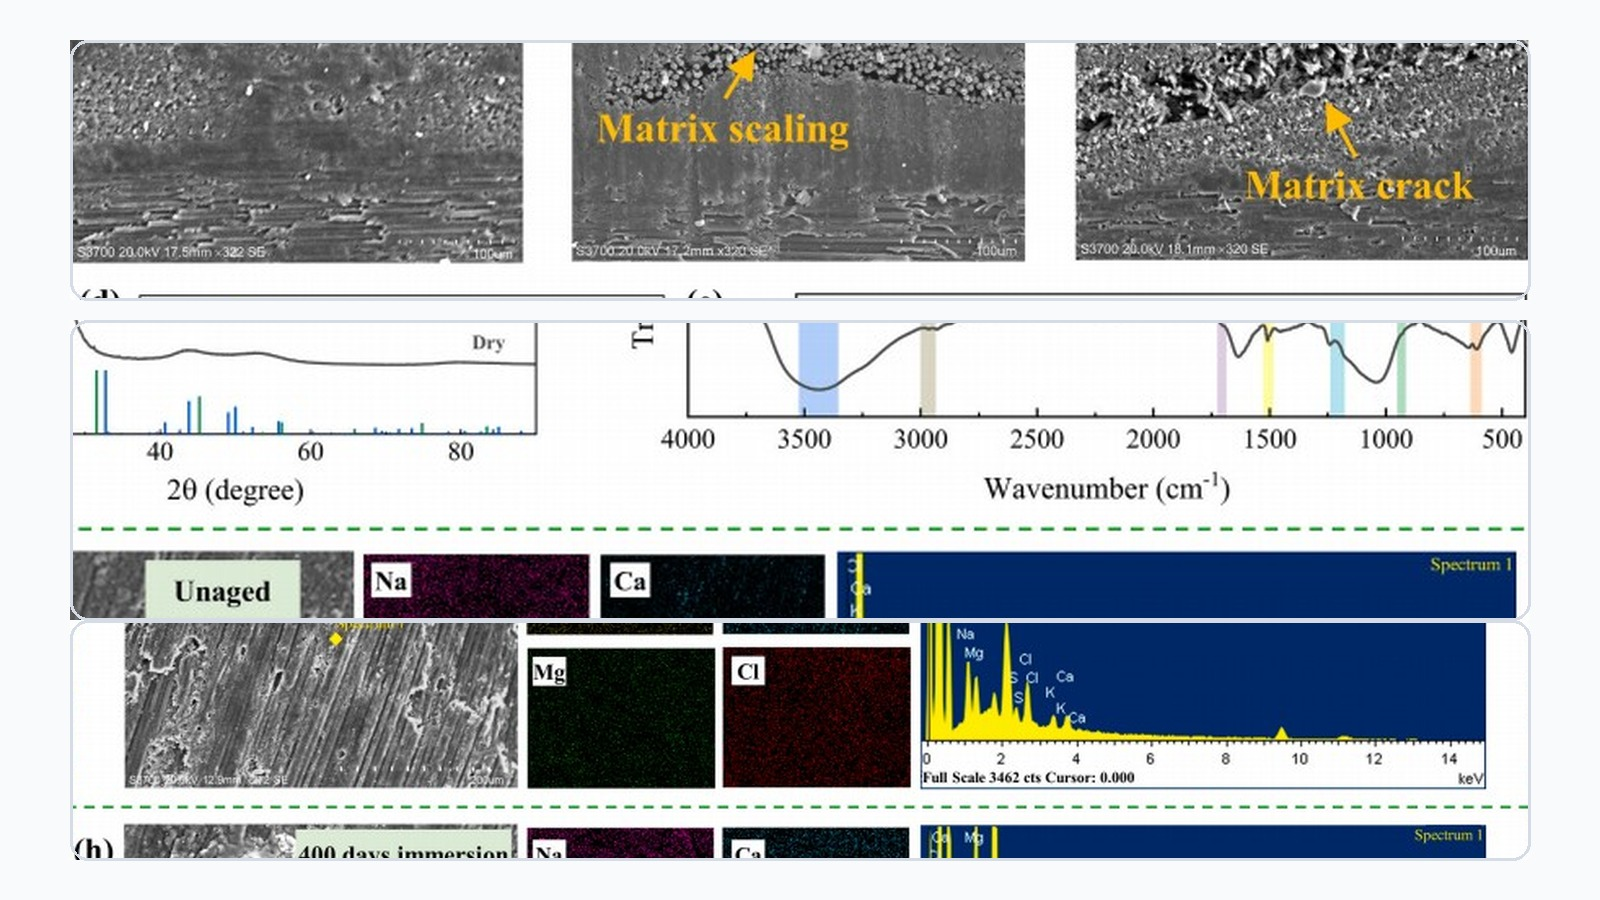
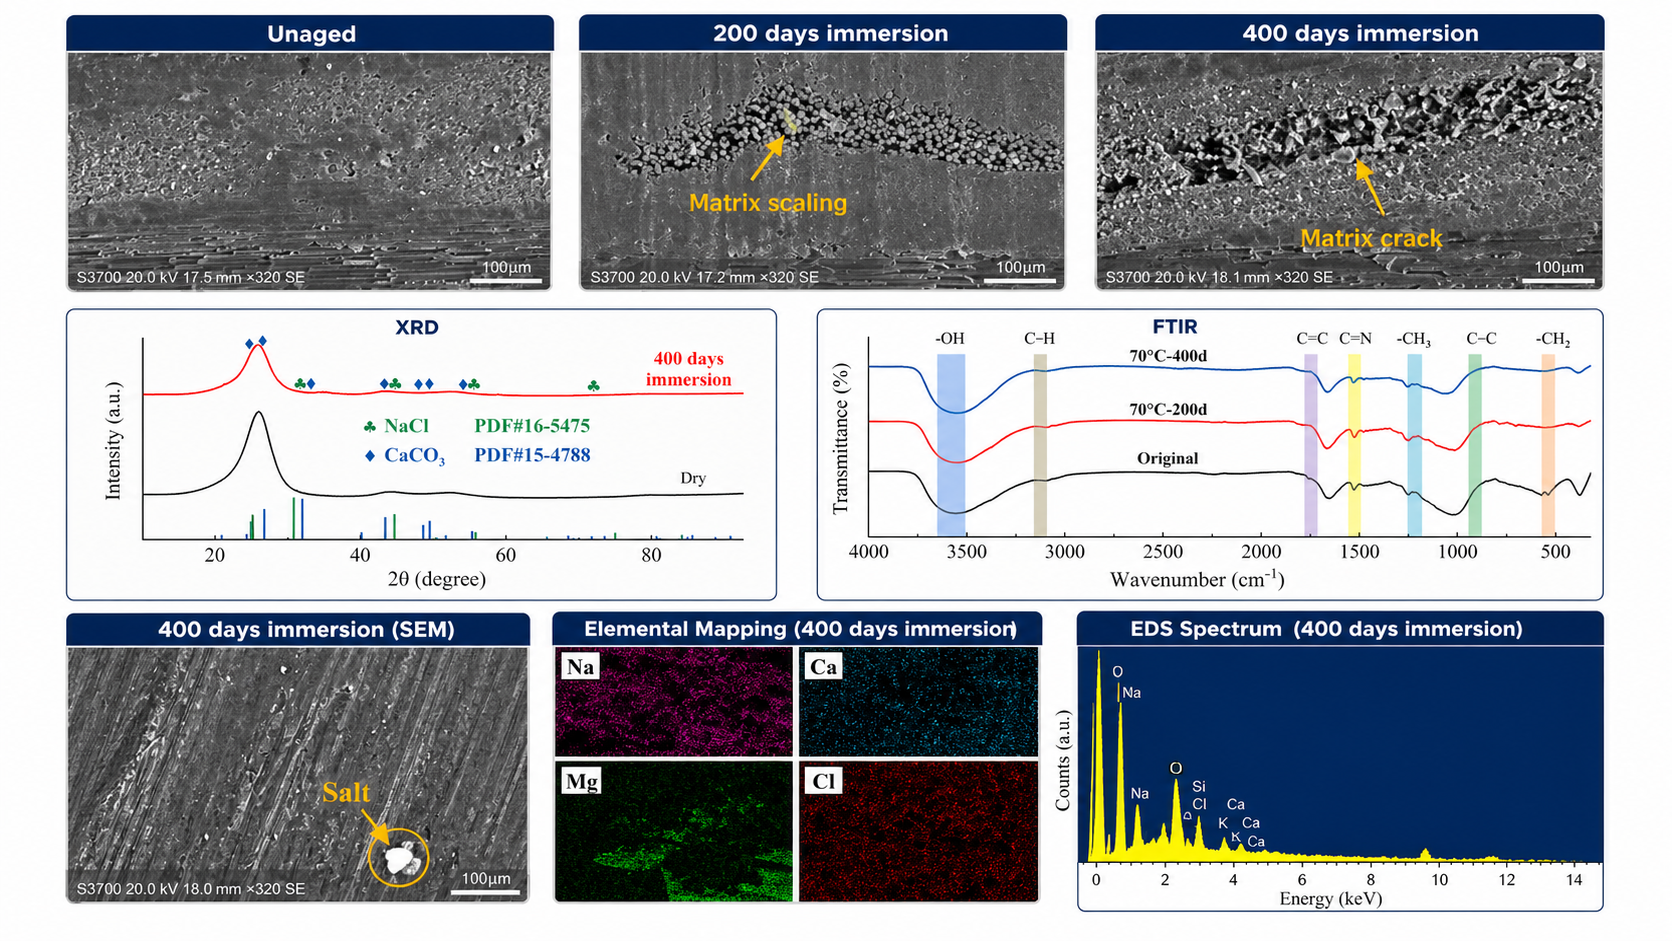
Update site content to v5

diff --git a/assets/js/carousel.js b/assets/js/carousel.js
@@ -1,66 +1,101 @@
-
 <script>
 document.addEventListener('DOMContentLoaded', function () {
   const carousel = document.querySelector('[data-carousel]');
   if (!carousel) return;
 
   const track = carousel.querySelector('.carousel-track');
-  const slides = Array.from(carousel.querySelectorAll('.carousel-slide'));
+  const realSlides = Array.from(track.querySelectorAll('.carousel-slide'));
   const dots = Array.from(carousel.querySelectorAll('.dot'));
   const prev = carousel.querySelector('.prev');
   const next = carousel.querySelector('.next');
-  let index = 0;
+  const viewport = carousel.querySelector('.carousel-viewport');
+
+  const firstClone = realSlides[0].cloneNode(true);
+  const lastClone = realSlides[realSlides.length - 1].cloneNode(true);
+  firstClone.classList.add('is-clone');
+  lastClone.classList.add('is-clone');
+  track.insertBefore(lastClone, realSlides[0]);
+  track.appendChild(firstClone);
+
+  const slides = Array.from(track.querySelectorAll('.carousel-slide'));
+  let index = 1;
   let timer = null;
-  const interval = 3000;
+  const interval = 4000;
   let startX = 0;
   let deltaX = 0;
+  let isAnimating = false;
 
-  function update() {
+  function realIndex() {
+    if (index === 0) return realSlides.length - 1;
+    if (index === slides.length - 1) return 0;
+    return index - 1;
+  }
+
+  function setPosition(animate = true) {
+    track.style.transition = animate ? 'transform .5s ease' : 'none';
     track.style.transform = `translateX(-${index * 100}%)`;
-    slides.forEach((slide, i) => slide.classList.toggle('is-active', i === index));
-    dots.forEach((dot, i) => dot.classList.toggle('is-active', i === index));
+    const current = realIndex();
+    dots.forEach((dot, i) => dot.classList.toggle('is-active', i === current));
   }
 
-  function goTo(newIndex) {
-    index = (newIndex + slides.length) % slides.length;
-    update();
+  function moveTo(newIndex) {
+    if (isAnimating) return;
+    isAnimating = true;
+    index = newIndex;
+    setPosition(true);
   }
+
+  track.addEventListener('transitionend', () => {
+    if (index === slides.length - 1) {
+      index = 1;
+      setPosition(false);
+    } else if (index === 0) {
+      index = slides.length - 2;
+      setPosition(false);
+    }
+    isAnimating = false;
+  });
 
   function startAuto() {
     stopAuto();
-    timer = setInterval(() => goTo(index + 1), interval);
+    timer = setInterval(() => moveTo(index + 1), interval);
   }
 
   function stopAuto() {
     if (timer) clearInterval(timer);
   }
 
-  prev.addEventListener('click', () => { goTo(index - 1); startAuto(); });
-  next.addEventListener('click', () => { goTo(index + 1); startAuto(); });
-  dots.forEach((dot, i) => dot.addEventListener('click', () => { goTo(i); startAuto(); }));
+  prev.addEventListener('click', () => { moveTo(index - 1); startAuto(); });
+  next.addEventListener('click', () => { moveTo(index + 1); startAuto(); });
+  dots.forEach((dot, i) => dot.addEventListener('click', () => {
+    moveTo(i + 1);
+    startAuto();
+  }));
+
   carousel.addEventListener('mouseenter', stopAuto);
   carousel.addEventListener('mouseleave', startAuto);
   carousel.addEventListener('focusin', stopAuto);
   carousel.addEventListener('focusout', startAuto);
 
-  const viewport = carousel.querySelector('.carousel-viewport');
   viewport.addEventListener('touchstart', (e) => {
     startX = e.touches[0].clientX;
     deltaX = 0;
     stopAuto();
-  }, {passive: true});
+  }, { passive: true });
+
   viewport.addEventListener('touchmove', (e) => {
     deltaX = e.touches[0].clientX - startX;
-  }, {passive: true});
+  }, { passive: true });
+
   viewport.addEventListener('touchend', () => {
     if (Math.abs(deltaX) > 50) {
-      if (deltaX < 0) goTo(index + 1);
-      else goTo(index - 1);
+      if (deltaX < 0) moveTo(index + 1);
+      else moveTo(index - 1);
     }
     startAuto();
   });
 
-  update();
+  setPosition(false);
   startAuto();
 });
 </script>

diff --git a/styles.css b/styles.css
@@ -93,15 +93,16 @@ h2 { font-size: 1.65rem; margin-top: 2rem; margin-bottom: 1rem; }
   border: 1px solid var(--site-border);
   background: #fff;
 }
+
 .carousel-slide h3 {
-  font-size: clamp(1rem, 2.2vw, 1.18rem);
+  font-size: clamp(0.88rem, 1.35vw, 1rem);
   font-weight: 600;
-  line-height: 1.45;
+  line-height: 1.35;
   text-align: center;
-  margin: .9rem auto .15rem;
-  max-width: 42ch;
+  margin: .8rem auto .05rem;
   color: #17365f;
 }
+
 .carousel-btn {
   position: absolute;
   top: 45%;
@@ -149,7 +150,16 @@ ol li { margin-bottom: 1rem; line-height: 1.7; }
   main.content { padding-left: .9rem; padding-right: .9rem; }
   .home-hero { border-radius: 18px; }
   .carousel-slide { padding: .7rem .7rem 1rem; }
-  .carousel-slide h3 { font-size: 1rem; max-width: 22ch; }
+  
+.carousel-slide h3 {
+  font-size: clamp(0.88rem, 1.35vw, 1rem);
+  font-weight: 600;
+  line-height: 1.35;
+  text-align: center;
+  margin: .8rem auto .05rem;
+  color: #17365f;
+}
+
   .carousel-btn { width: 38px; height: 38px; top: 42%; }
 }
 
@@ -170,19 +180,55 @@ ol li { margin-bottom: 1rem; line-height: 1.7; }
   max-height: 620px;
 }
 
+
 .carousel-slide h3 {
-  font-size: clamp(0.95rem, 1.7vw, 1.15rem);
-  max-width: 48ch;
-  letter-spacing: 0.01em;
+  font-size: clamp(0.88rem, 1.35vw, 1rem);
+  font-weight: 600;
+  line-height: 1.35;
+  text-align: center;
+  margin: .8rem auto .05rem;
+  color: #17365f;
 }
+
 
 @media (max-width: 640px) {
   .carousel-slide img {
     aspect-ratio: 4 / 3;
     max-height: none;
   }
+  
+.carousel-slide h3 {
+  font-size: clamp(0.88rem, 1.35vw, 1rem);
+  font-weight: 600;
+  line-height: 1.35;
+  text-align: center;
+  margin: .8rem auto .05rem;
+  color: #17365f;
+}
+
+}
+
+
+@media (min-width: 900px) {
   .carousel-slide h3 {
-    font-size: 0.98rem;
-    line-height: 1.35;
+    white-space: nowrap;
   }
 }
+
+.carousel-slide {
+  min-width: 100%;
+  padding: 1rem 1rem 1rem;
+}
+
+.carousel-slide img {
+  width: 100%;
+  aspect-ratio: 16 / 9;
+  object-fit: contain;
+  object-position: center;
+  display: block;
+  border-radius: 16px;
+  border: 1px solid var(--site-border);
+  background: #fff;
+  max-height: 620px;
+}
+